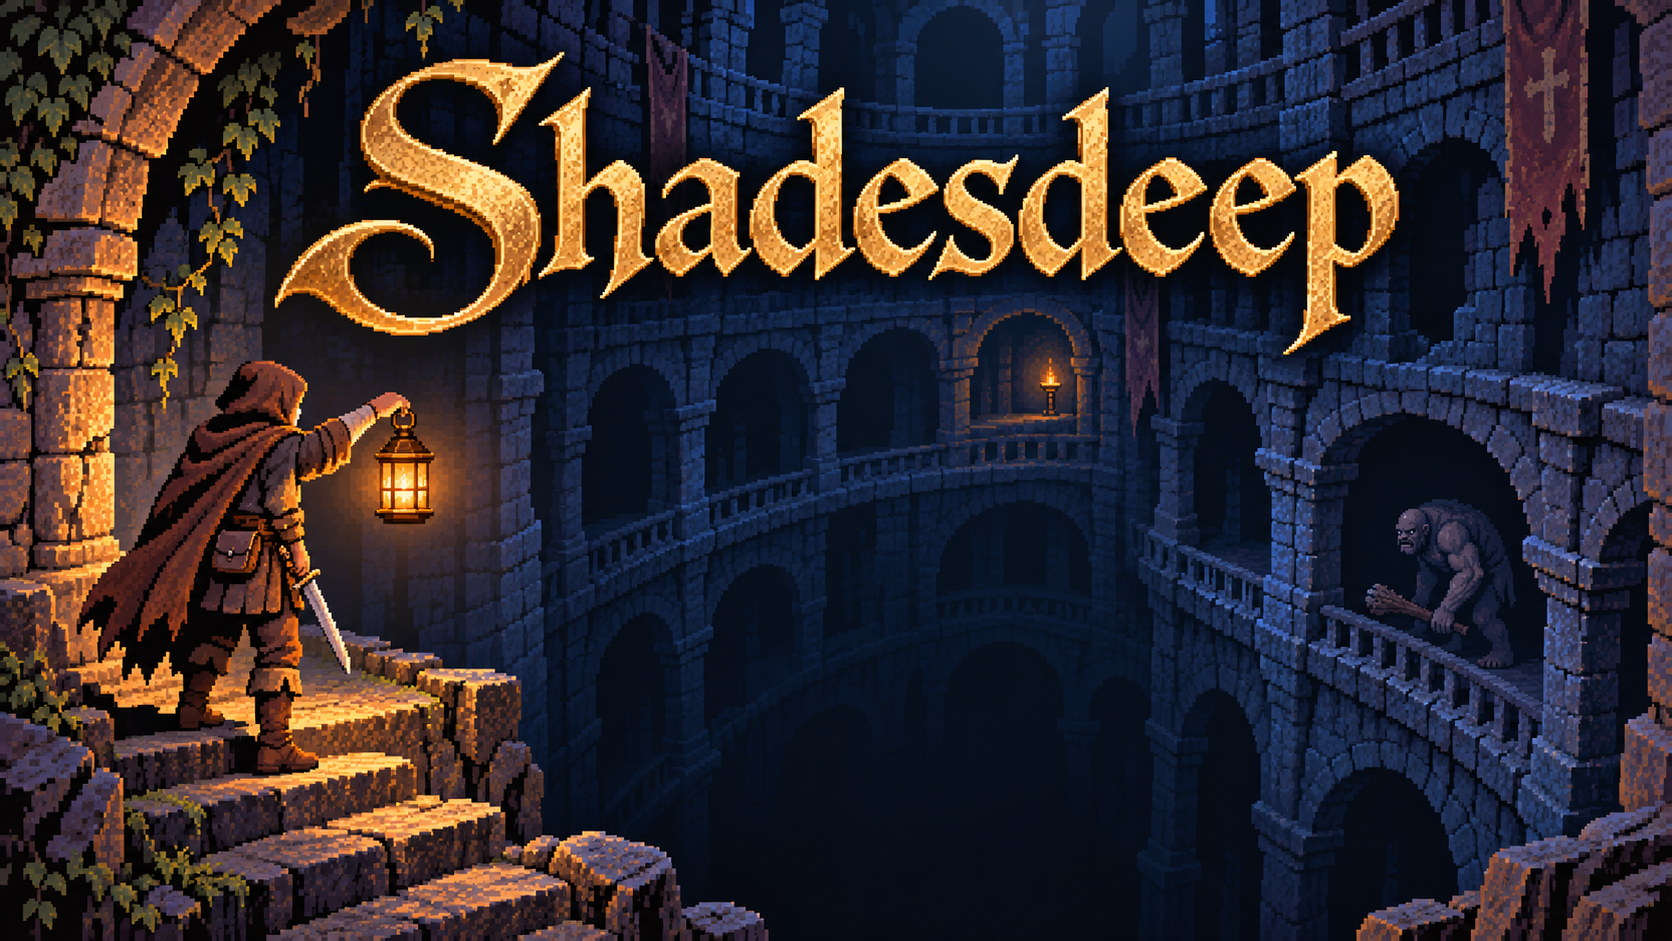
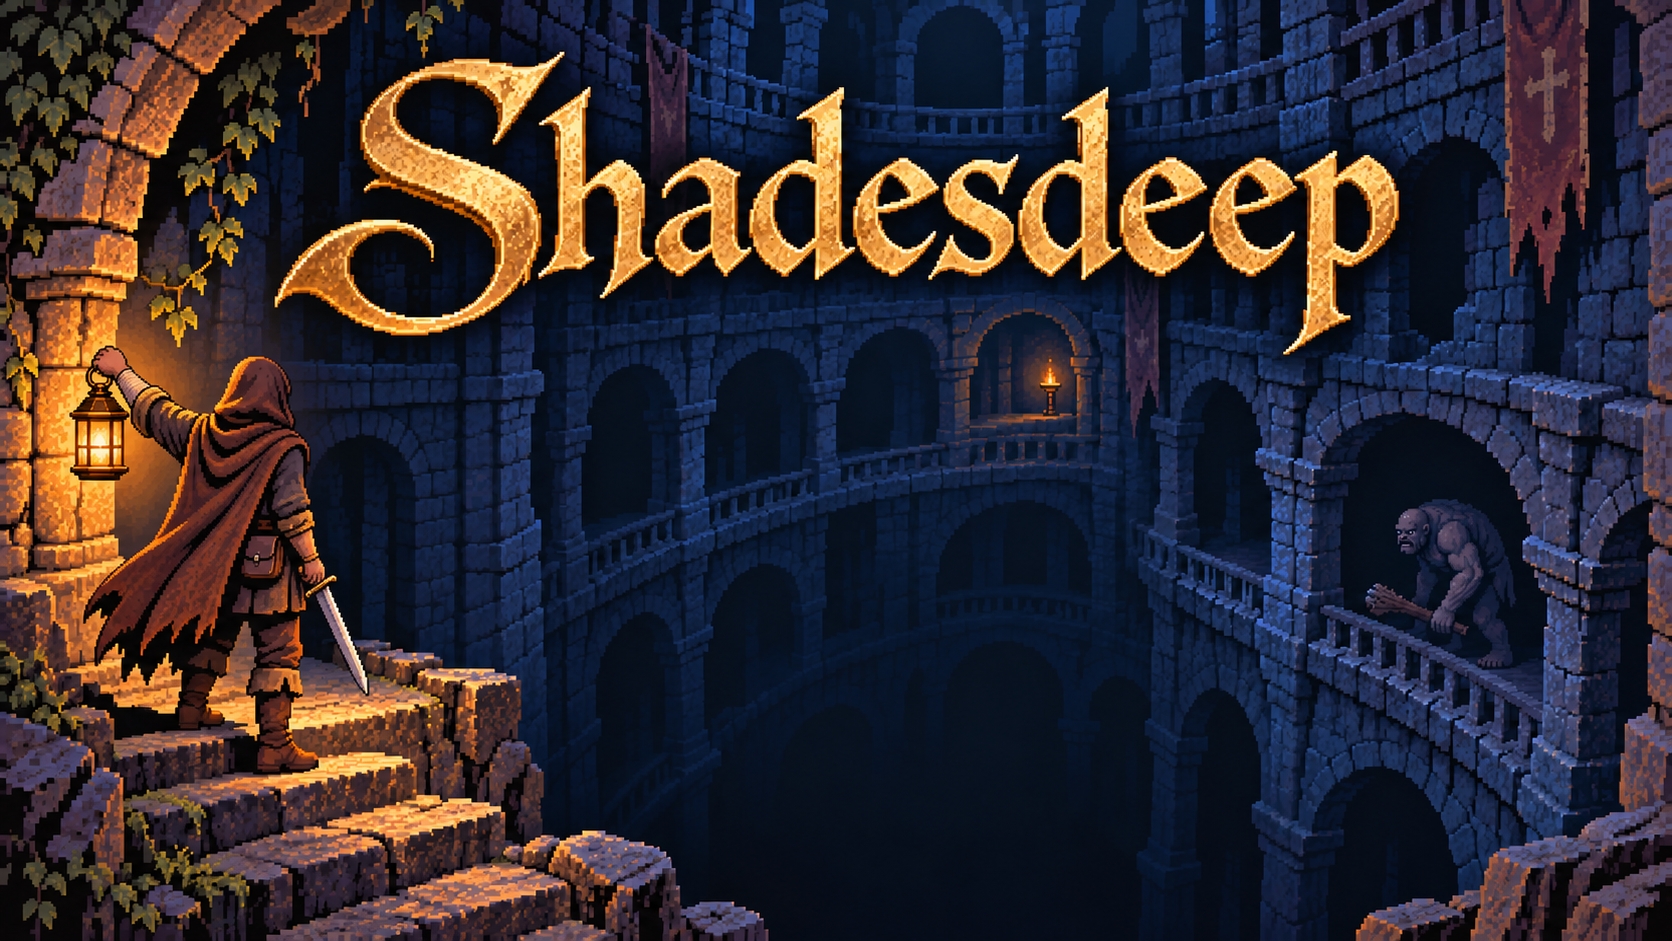
Shadesdeep 0.24.1: the adventurer on the title gets an arm back on each side
The title picture fixed by hand: the adventurer had both arms on one side.

diff --git a/src/version.h b/src/version.h
@@ -2,6 +2,6 @@
 #define VERSION_H
 
 #define SHADESDEEP_NAME    "shadesdeep"
-#define SHADESDEEP_VERSION "0.24.0"
+#define SHADESDEEP_VERSION "0.24.1"
 
 #endif

diff --git a/docs/MANUAL.md b/docs/MANUAL.md
@@ -1,6 +1,6 @@
 # Shadesdeep — Player's Manual
 
-*Covers Shadesdeep 0.24.0. This manual grows with the game: each new feature gets
+*Covers Shadesdeep 0.24.1. This manual grows with the game: each new feature gets
 written up here as it lands.*
 
 You go down into a dungeon with a dim lantern, a short sword, two torches, a
